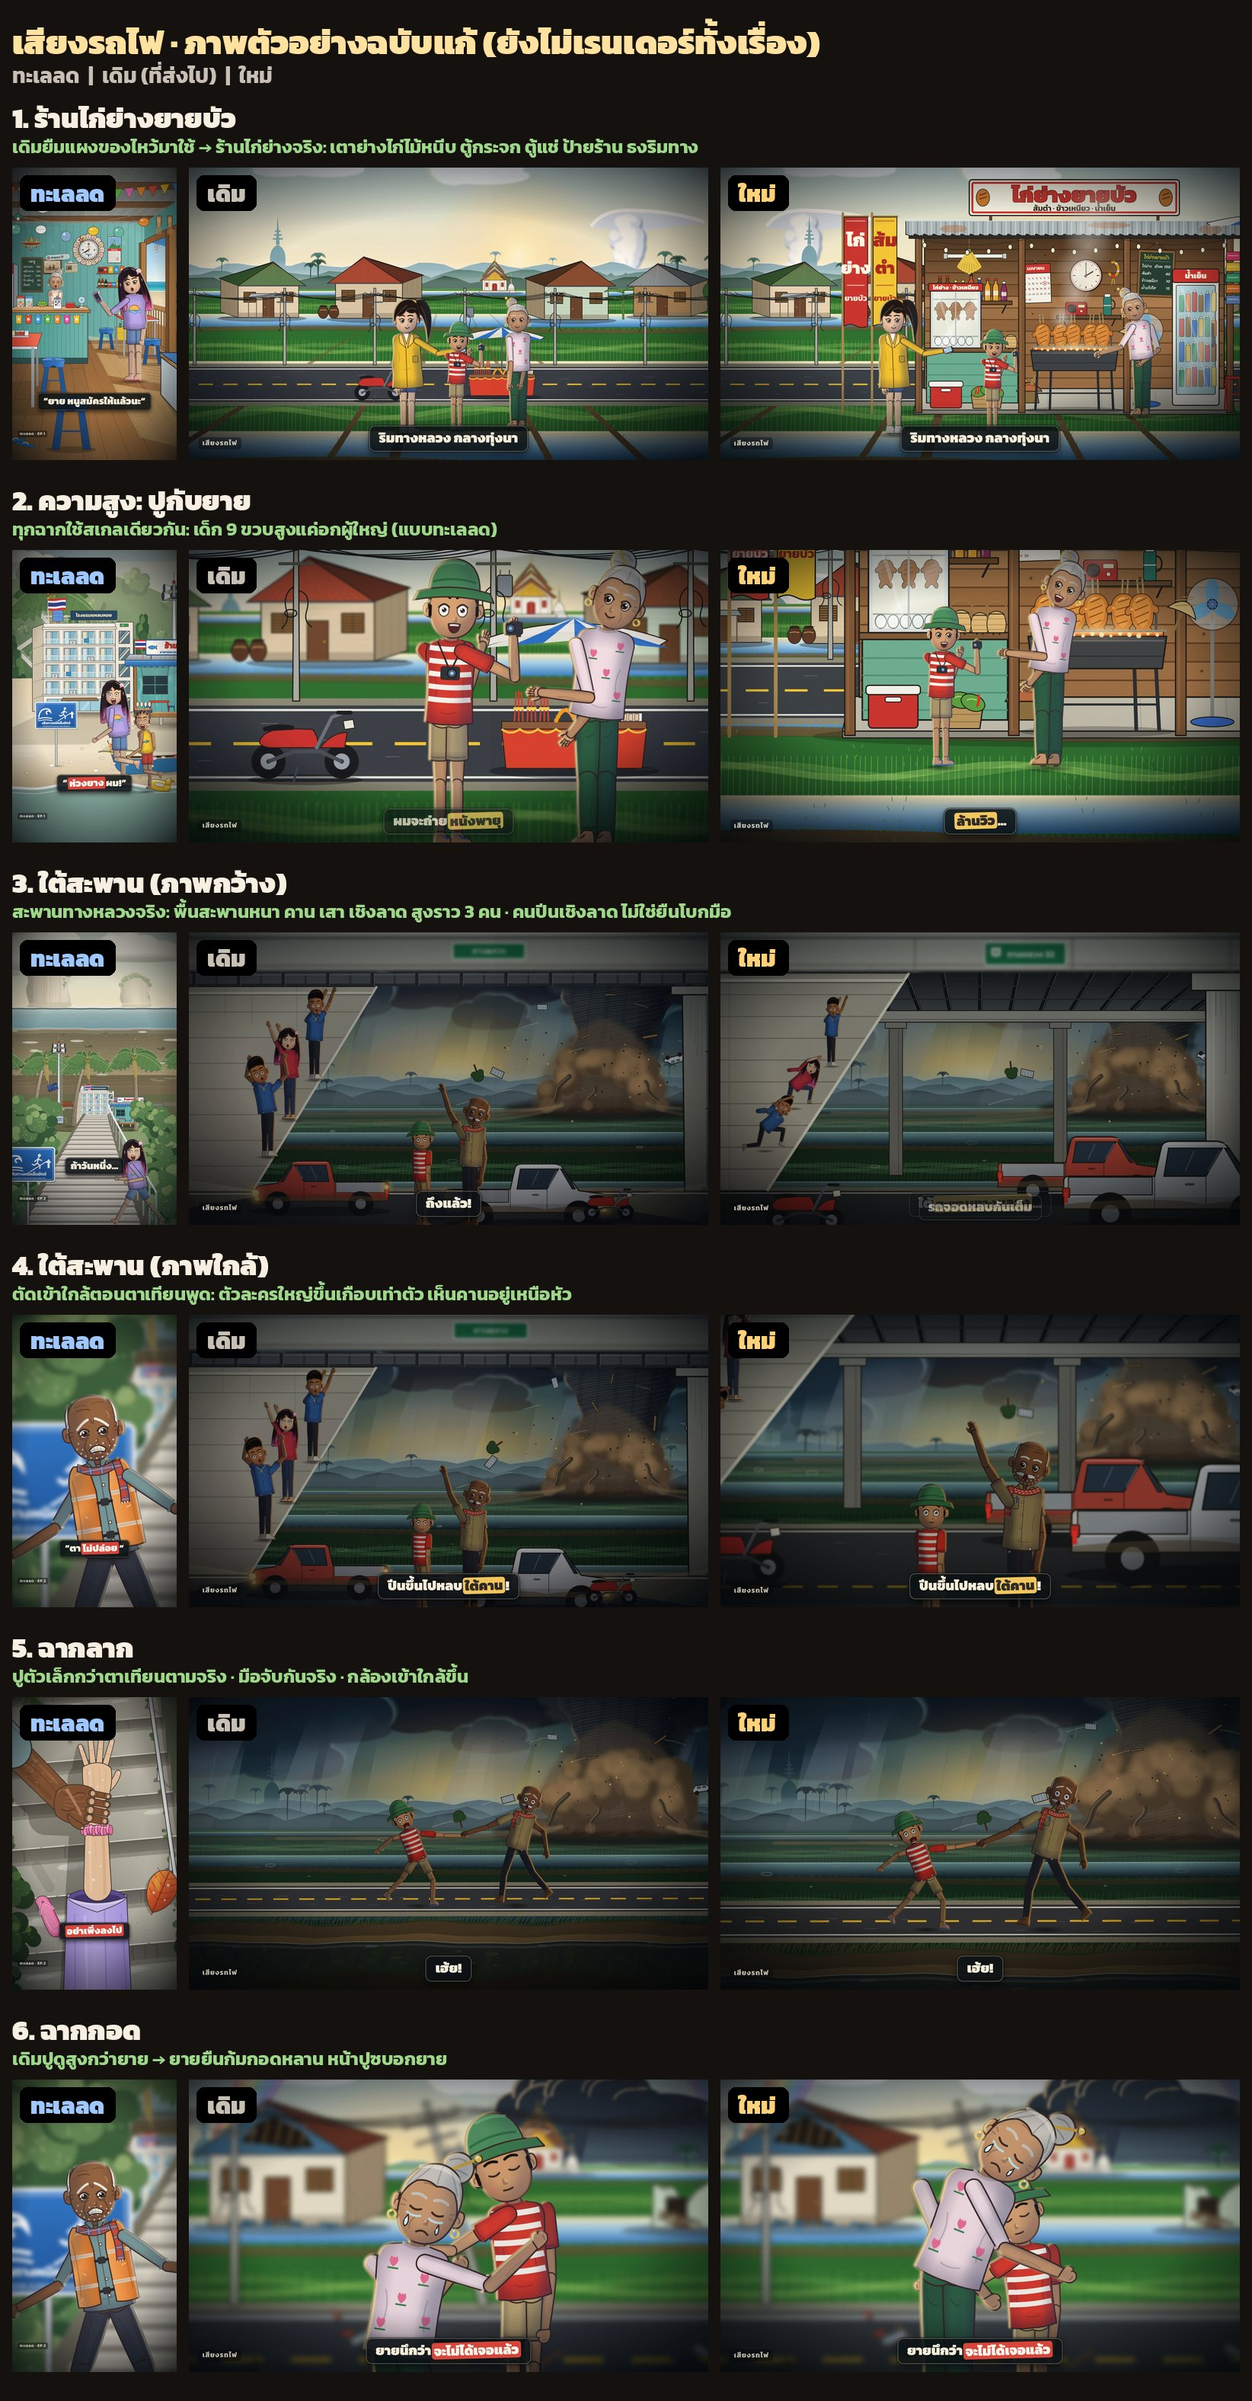
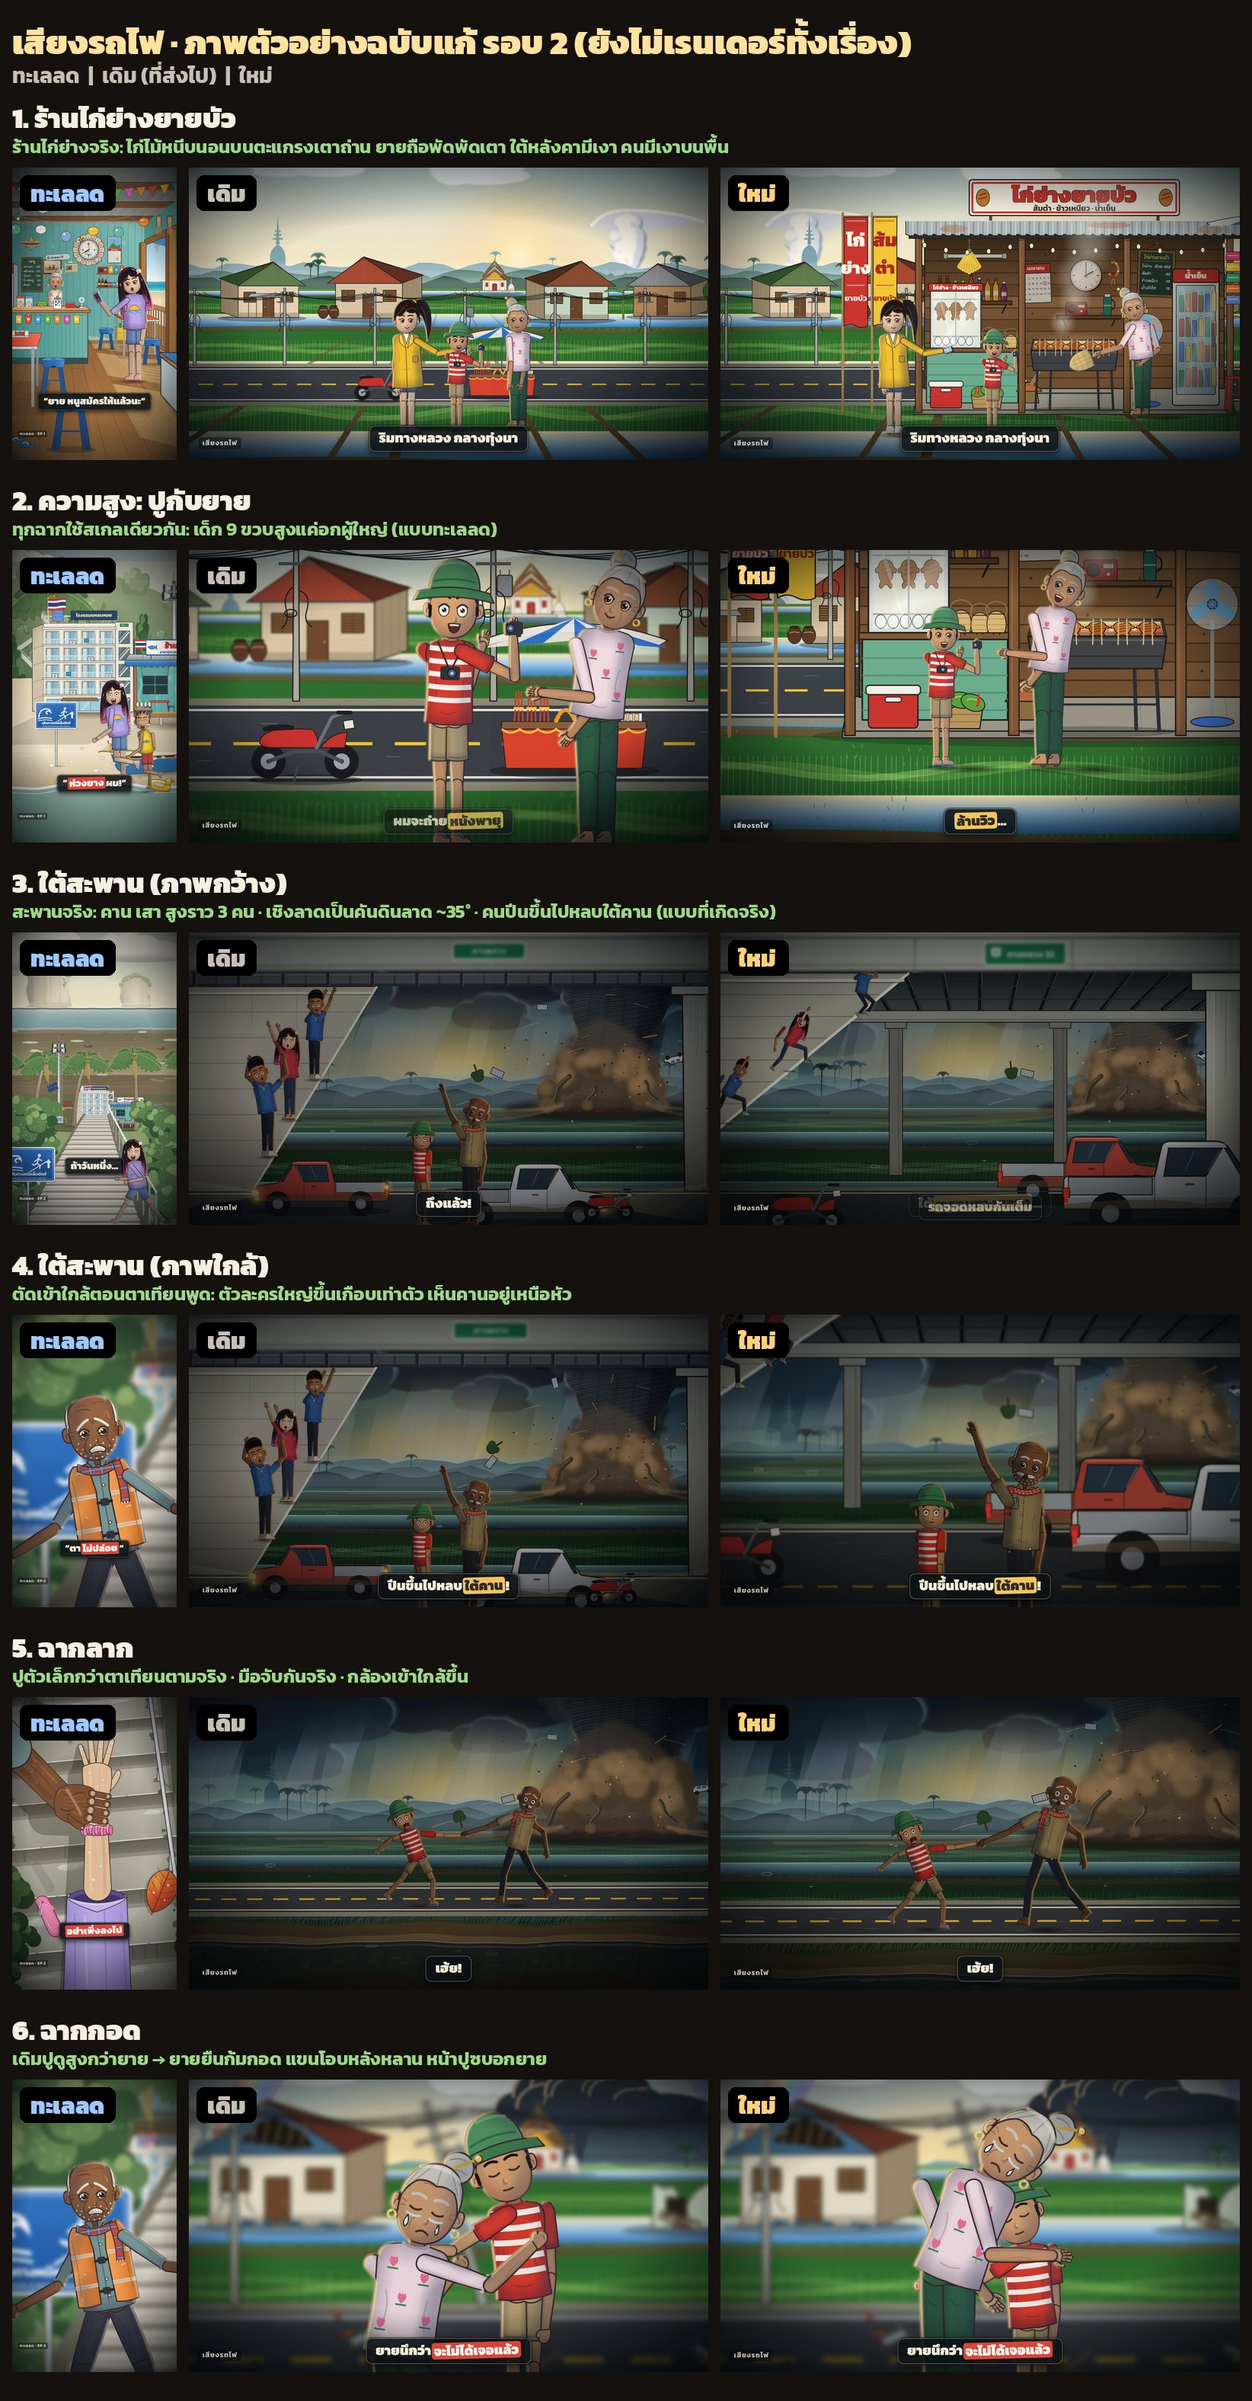
เสียงรถไฟ style frames round 2: realistic details (owner: "ละเอียดต่างๆสมจริงป่ะ")
- The grill seen a little from above: chickens in bamboo clamps lying flat on the grate over the
  coals, the handles toward us (they stood upright in a row, too big).
- The roof's shade over the back of the shop; people cast shadows on sunny days (CLEARL cast on).
- ยายบัว holds a woven palm fan while fanning the grill (C.yaiBuaFan).
- The embankment is a real ~35° slope (Ngw.overpass o.run); the people are on it, climbing up and
  huddling under the girders (cower / climbUp), not floating or waving.
- The hug: ยายบัว's near arm bends round ปู's back, the hand stops at his shoulder blade.

Claude-Session: https://claude.ai/code/session_01UrmfYm4mSaaTB25kG8juWV

diff --git a/video/tornado/stylekit/src/ngw.js b/video/tornado/stylekit/src/ngw.js
@@ -211,7 +211,7 @@
     // parapet, railing, lamp posts and the route sign in front; behind the actors the underside receding in perspective (girders
     // converging), the far deck edge and far piers, a thick near pier with its cap, and the paved abutment slope people climb.
     // Clearance is set by the shot (o.y + o.h above o.ground): about three people under the deck (≈ 5 m) at the shot's actor scale.
-    const ty = o.y ?? 560, dh = o.h ?? 150, gy = o.ground ?? 1560, sx = o.slopeX ?? 520, px = o.pier ?? 960, vx = o.vx ?? 540;
+    const ty = o.y ?? 560, dh = o.h ?? 150, gy = o.ground ?? 1560, sx = o.slopeX ?? 520, px = o.pier ?? 960, vx = o.vx ?? 540, rn = o.run ?? 640;   // rn: the slope's run (1200 ≈ a real 35° embankment)
     const db = ty + dh, sd = o.soffit ?? 170, fb = db + sd, X0 = -1500, X1 = 2700, r = mk(o.seed || 31), G = "ov" + (Ngw._ovN = (Ngw._ovN || 0) + 1);   // gradient ids unique per drawing (68 clips share the page)
     let set = `<defs><linearGradient id="${G}s" x1="0" y1="0" x2="0" y2="1"><stop offset="0" stop-color="#1e2022"/><stop offset="1" stop-color="#46494c"/></linearGradient>
       <linearGradient id="${G}p" x1="0" y1="0" x2="1" y2="0"><stop offset="0" stop-color="#bdbab0"/><stop offset=".5" stop-color="#a19e95"/><stop offset="1" stop-color="#6c6a64"/></linearGradient>
@@ -227,10 +227,10 @@
     // the shadow the deck throws on the road under it
     set += `<path d="M${X0},${gy - 50}H${X1}V${gy + 260}H${X0}Z" fill="#000" opacity=".2"/>`;
     // the abutment: a paved slope from the road up to the underside, its joints, its lit top edge, a ledge right under the girders
-    set += `<path d="M${X0},${db}H${sx}L${sx - 640},${gy}H${X0}Z" fill="url(#${G}l)" stroke="${INK}" stroke-width="6"/>`;
-    for (let k = 1; k < 10; k++) { const t = k / 10; set += `<path d="M${X0},${f1(db + t * (gy - db))}H${f1(sx - 640 * t)}" stroke="#776f62" stroke-width="4"/>`; }
-    for (let x = X0 + 150; x < sx - 640; x += 190) set += `<path d="M${x},${db}V${gy}" stroke="#776f62" stroke-width="3" opacity=".7"/>`;
-    set += `<path d="M${sx},${db}L${sx - 640},${gy}" stroke="#ddd8c8" stroke-width="12"/><path d="M${X0},${db + 34}H${sx - 22}" stroke="#c9c4b4" stroke-width="12"/><path d="M${X0},${db + 44}H${sx - 30}" stroke="#4e4a40" stroke-width="5" opacity=".7"/>`;
+    set += `<path d="M${X0},${db}H${sx}L${sx - rn},${gy}H${X0}Z" fill="url(#${G}l)" stroke="${INK}" stroke-width="6"/>`;
+    for (let k = 1; k < 10; k++) { const t = k / 10; set += `<path d="M${X0},${f1(db + t * (gy - db))}H${f1(sx - rn * t)}" stroke="#776f62" stroke-width="4"/>`; }
+    for (let x = X0 + 150; x < sx - rn; x += 190) set += `<path d="M${x},${db}V${gy}" stroke="#776f62" stroke-width="3" opacity=".7"/>`;
+    set += `<path d="M${sx},${db}L${sx - rn},${gy}" stroke="#ddd8c8" stroke-width="12"/><path d="M${X0},${db + 34}H${sx - 22}" stroke="#c9c4b4" stroke-width="12"/><path d="M${X0},${db + 44}H${sx - 30}" stroke="#4e4a40" stroke-width="5" opacity=".7"/>`;
     // the near pier: a thick column with its cap and bearing pads, lit from the left, a drain pipe, rain stains
     set += `<path d="M${px - 170},${db}H${px + 170}V${db + 80}H${px - 170}Z" fill="#aaa79e" stroke="${INK}" stroke-width="6"/>${[-110, 0, 110].map((dx) => `<rect x="${px + dx - 26}" y="${db - 14}" width="52" height="14" fill="#2e2e2e"/>`).join("")}`;
     set += `<path d="M${px - 105},${db + 80}H${px + 105}V${gy + 40}H${px - 105}Z" fill="url(#${G}p)" stroke="${INK}" stroke-width="6"/><path d="M${px - 70},${db + 84}V${gy + 30}" stroke="#d2cfc6" stroke-width="6" opacity=".55"/>`;
@@ -582,19 +582,25 @@
       <path d="M-30,-262q12,-14 30,-14" stroke="#f6c070" stroke-width="7" fill="none" stroke-linecap="round" opacity=".8"/><circle cx="-58" cy="-214" r="7" fill="#f6c070" opacity=".7"/></g>`; };
   // the charcoal grill: a long trough on legs, the coals glowing, five chickens in clamps leaning on its back rail, the smoke (class id-smk)
   Ngw.grill = (x, y, s = 1, o = {}) => { const I = INK, id = o.id || "gs";
+    // seen a little from above (owner 5 Nov "สมจริงป่ะ"): the coal bed and the grate on top, the chickens lying flat in their bamboo
+    // clamps across it, the clamp handles sticking out toward us over the front edge — not standing up in a row
     let g = `<g transform="translate(${f1(x)},${f1(y)}) scale(${s})"><ellipse cx="0" cy="8" rx="250" ry="18" fill="#000" opacity=".25"/>`;
     g += `<path d="M-190,-200L-200,4M190,-200L200,4M-120,-200L-126,0M120,-200L126,0" stroke="#2a2a2c" stroke-width="12" stroke-linecap="round"/><path d="M-196,-80H196" stroke="#2a2a2c" stroke-width="7"/>`;
-    g += `<path d="M-190,-372H190" stroke="#4a4a4c" stroke-width="8"/><path d="M-190,-372V-290M190,-372V-290" stroke="#4a4a4c" stroke-width="8"/>`;
-    [-152, -76, 0, 76, 152].forEach((cx, k) => { g += Ngw.clampChicken(cx, -270, 0.56, [-5, 3, -2, 4, -4][k]); });
-    g += `<path d="M-224,-300H224L210,-196H-210Z" fill="#3e3e40" ${OUT(5)}/><path d="M-216,-286H216" stroke="#5e5e60" stroke-width="5"/><path d="M-212,-236H212" stroke="#2a2a2c" stroke-width="4"/>`;
-    g += `<path d="M-214,-300H214V-316H-214Z" fill="url(#ngwGsCoal)" ${OUT(3)}/>`;
-    for (let k = 0; k < 14; k++) g += `<circle cx="${-196 + k * 30}" cy="${-308 + (k % 3) * 3}" r="${5 + (k % 4)}" fill="#fff0b0" opacity=".85"/>`;
-    g += `<path d="M-224,-318H224" stroke="#8a8a84" stroke-width="5"/>${Array.from({ length: 15 }, (_, k) => `<path d="M${-210 + k * 30},-326v16" stroke="#8a8a84" stroke-width="3"/>`).join("")}`;
-    g += `<ellipse cx="0" cy="-318" rx="240" ry="40" fill="url(#ngwGsWarm)" style="mix-blend-mode:screen"/>`;
-    // the woven fan resting on the trough's end
-    g += `<g transform="translate(236,-292) rotate(24)"><path d="M0,0V-90" stroke="#8a6a3a" stroke-width="8"/><path d="M-50,-90Q0,-170 50,-90Q0,-100 -50,-90Z" fill="#d8b878" ${OUT(3)}/><path d="M-30,-104l60,-30M-36,-120l50,-26M-20,-140l36,-14" stroke="#a8884a" stroke-width="3"/></g>`;
+    // the top: the far rim, the coal bed glowing between the rims, the grate bars along it
+    g += `<path d="M-224,-300L-212,-356H212L224,-300Z" fill="#2e2e30" ${OUT(4)}/><path d="M-214,-306L-204,-348H204L214,-306Z" fill="url(#ngwGsCoal)"/>`;
+    for (let k = 0; k < 22; k++) g += `<circle cx="${-196 + k * 18.6}" cy="${-318 - (k * 7) % 22}" r="${4 + (k % 3) * 2}" fill="#fff0b0" opacity=".8"/>`;
+    for (let k = 0; k < 5; k++) { const yy = -306 - k * 10.5; g += `<path d="M${f1(-214 + k * 2.4)},${f1(yy)}H${f1(214 - k * 2.4)}" stroke="#7a7a76" stroke-width="2.6"/>`; }
+    g += `<ellipse cx="0" cy="-330" rx="260" ry="60" fill="url(#ngwGsWarm)" style="mix-blend-mode:screen"/>`;
+    // the chickens: split and pressed flat, lying on the grate (a squashed top view), each in its two bamboo sticks
+    const CH = "M0,-300C-40,-302 -66,-270 -70,-232C-96,-226 -104,-200 -92,-186C-84,-176 -70,-182 -66,-190C-66,-150 -58,-122 -40,-104C-58,-86 -66,-60 -52,-46C-40,-36 -26,-50 -22,-66L0,-80L22,-66C26,-50 40,-36 52,-46C66,-60 58,-86 40,-104C58,-122 66,-150 66,-190C70,-182 84,-176 92,-186C104,-200 96,-226 70,-232C66,-270 40,-302 0,-300Z";
+    [-164, -82, 0, 82, 164].forEach((cx, k) => { const tone = ["#b8642a", "#c8722a", "#a85a22", "#c27028", "#b46026"][k];
+      g += `<g transform="translate(${cx},-327) scale(.4,.19) translate(0,190)"><path d="${CH}" fill="${tone}" ${OUT(9)}/><path d="M-30,-250l58,-22M-38,-206l74,-26M-40,-164l78,-28M-30,-124l58,-22" stroke="#5a240c" stroke-width="16" stroke-linecap="round" opacity=".7"/><path d="M-34,-262q14,-16 34,-16" stroke="#f6c070" stroke-width="16" fill="none" stroke-linecap="round" opacity=".75"/></g>`;
+      g += `<path d="M${cx - 13},-356L${cx - 14},-300M${cx + 13},-356L${cx + 14},-300" stroke="#dcc08a" stroke-width="4" stroke-linecap="round" opacity=".9"/>`; });
+    // the front face of the trough over the handles' roots
+    g += `<path d="M-224,-300H224L210,-196H-210Z" fill="#3e3e40" ${OUT(5)}/><path d="M-216,-288H216" stroke="#5e5e60" stroke-width="5"/><path d="M-212,-236H212" stroke="#2a2a2c" stroke-width="4"/>`;
+    [-164, -82, 0, 82, 164].forEach((cx) => { g += `<path d="M${cx - 14},-300L${cx - 15},-274M${cx + 14},-300L${cx + 15},-274" stroke="#dcc08a" stroke-width="4" stroke-linecap="round"/>`; });
     // the smoke drifting up and away (Ngw.grillSmoke animates id-smk)
-    if (o.smoke !== false) { for (let k = 0; k < 6; k++) { const sx = -60 + k * 34 + (k % 2) * 30, sy = -470 - k * 120, sr = 70 + k * 22;
+    if (o.smoke !== false) { for (let k = 0; k < 6; k++) { const sx = -60 + k * 34 + (k % 2) * 30, sy = -440 - k * 120, sr = 70 + k * 22;
       g += `<circle class="${id}-smk" cx="${sx}" cy="${sy}" r="${sr}" fill="url(#ngwGsSmoke)" opacity="${f1(0.75 - k * 0.09)}"/>`; } }
     return g + `</g>`; };
   // the smoke rising: each puff drifts up and right and thins, looping
@@ -646,6 +652,8 @@
       for (let b = 0; b < 6; b++) { const bx = -84 + b * 33, h = 86 + ((b + sh) % 3) * 8; g += `<rect x="${bx}" y="${sy - h}" width="24" height="${h}" rx="8" fill="${bc[(b + sh * 2) % 6]}" ${OUT(2)}/><rect x="${bx + 7}" y="${sy - h - 10}" width="10" height="12" fill="#e8e4d8" ${OUT(1.5)}/>`; } }
     g += `<rect x="-100" y="-616" width="200" height="560" rx="6" fill="url(#ngwGsGlass)"/><path d="M-70,-600L60,-90" stroke="#fff" stroke-width="10" opacity=".25"/><rect x="84" y="-420" width="10" height="120" rx="5" fill="#8a8a84" ${OUT(2)}/></g>`;
     if (lit) g += `<ellipse cx="624" cy="-330" rx="200" ry="330" fill="#e8fcff" opacity=".2" style="mix-blend-mode:screen"/>`;
+    // the roof's shade over everything at the back of the shop (bright day: deep; storm with the lights on: light)
+    g += `<path d="M-770,-884H770V-112H-770Z" fill="#1c140c" opacity="${lit ? 0.12 : 0.3}" style="mix-blend-mode:multiply"/><path d="M-800,-112H800L824,0H-824Z" fill="#1c140c" opacity="${lit ? 0.1 : 0.22}" style="mix-blend-mode:multiply"/>`;
     // the counter (left bay): a mint-painted plank front, the glass chicken cabinet, the sticky-rice baskets, a plastic-bag stack
     g += `<rect x="-770" y="-318" width="490" height="22" fill="#7a5232" ${OUT(4)}/><path d="M-760,-296H-290V-36H-760Z" fill="#6aa88a" ${OUT(5)}/>${Array.from({ length: 4 }, (_, k) => `<path d="M-760,${-236 + k * 56}H-290" stroke="#4a8a6c" stroke-width="5"/>`).join("")}`;
     g += `<g transform="translate(-610,-318)"><rect x="-130" y="-300" width="260" height="300" fill="#d8dcdc" ${OUT(5)}/><rect x="-140" y="-332" width="280" height="40" rx="6" fill="#c8302a" ${OUT(4)}/><text y="-301" text-anchor="middle" font-family="Kanit" font-weight="800" font-size="30" fill="#fff6e0">ไก่ย่าง · ข้าวเหนียว</text>
@@ -1589,4 +1597,8 @@
     <circle cx="-26" cy="-524" r="1.8" fill="#fff"/><circle cx="25" cy="-523" r="1.5" fill="#fff"/></g>`;
   C.taTianCry = { v2: { ...C.taTian.v2, face: C.taTian.v2.face + tears } };
   C.yaiBuaCry = { v2: { ...C.yaiBua.v2, face: (C.yaiBua.v2.face || "") + tears } };
+  const palmFan = `<g transform="translate(0,112) rotate(8)"><path d="M0,-6V58" stroke="#8a6a3a" stroke-width="9" stroke-linecap="round"/><path d="M-46,52Q-58,150 0,166Q58,150 46,52Q0,40 -46,52Z" fill="#d8b878" ${ln(2.6)}/>
+    <path d="M-44,80H44M-48,108H48M-42,136H42M-20,52V160M0,48V166M20,52V160" stroke="#a8884a" stroke-width="3" opacity=".8"/><path d="M-46,52Q0,40 46,52" stroke="#8a6a3a" stroke-width="6" fill="none"/></g>`;
+  C.yaiBuaFan = { ...C.yaiBua, hand: palmFan, keep: "F" };   // fanning the charcoal at the grill
+
 })();

diff --git a/video/tornado/qa/sheet3.py b/video/tornado/qa/sheet3.py
@@ -9,18 +9,18 @@ fb = lambda n: ImageFont.truetype(F + "f2.ttf", n)
 fx = lambda n: ImageFont.truetype(F + "f3.ttf", n)
 out = sys.argv[1]
 ROWS = [
-    ("1. ร้านไก่ย่างยายบัว", "เดิมยืมแผงของไหว้มาใช้ → ร้านไก่ย่างจริง: เตาย่างไก่ไม้หนีบ ตู้กระจก ตู้แช่ ป้ายร้าน ธงริมทาง", "td1_19", "t11.00", "t11.00"),
+    ("1. ร้านไก่ย่างยายบัว", "ร้านไก่ย่างจริง: ไก่ไม้หนีบนอนบนตะแกรงเตาถ่าน ยายถือพัดพัดเตา ใต้หลังคามีเงา คนมีเงาบนพื้น", "td1_19", "t11.00", "t11.00"),
     ("2. ความสูง: ปูกับยาย", "ทุกฉากใช้สเกลเดียวกัน: เด็ก 9 ขวบสูงแค่อกผู้ใหญ่ (แบบทะเลลด)", "td1_91", "t20.50", "t22.50"),
-    ("3. ใต้สะพาน (ภาพกว้าง)", "สะพานทางหลวงจริง: พื้นสะพานหนา คาน เสา เชิงลาด สูงราว 3 คน · คนปีนเชิงลาด ไม่ใช่ยืนโบกมือ", "td2_1", "t133.00", "t131.50"),
+    ("3. ใต้สะพาน (ภาพกว้าง)", "สะพานจริง: คาน เสา สูงราว 3 คน · เชิงลาดเป็นคันดินลาด ~35° · คนปีนขึ้นไปหลบใต้คาน (แบบที่เกิดจริง)", "td2_1", "t133.00", "t131.50"),
     ("4. ใต้สะพาน (ภาพใกล้)", "ตัดเข้าใกล้ตอนตาเทียนพูด: ตัวละครใหญ่ขึ้นเกือบเท่าตัว เห็นคานอยู่เหนือหัว", "td2_10", "t134.50", "t134.50"),
     ("5. ฉากลาก", "ปูตัวเล็กกว่าตาเทียนตามจริง · มือจับกันจริง · กล้องเข้าใกล้ขึ้น", "td2_4", "t146.30", "t146.30"),
-    ("6. ฉากกอด", "เดิมปูดูสูงกว่ายาย → ยายยืนก้มกอดหลาน หน้าปูซบอกยาย", "td2_7", "t197.00", "t197.00"),
+    ("6. ฉากกอด", "เดิมปูดูสูงกว่ายาย → ยายยืนก้มกอด แขนโอบหลังหลาน หน้าปูซบอกยาย", "td2_7", "t197.00", "t197.00"),
 ]
 VH = 384; VW = VH * 9 // 16; WW = VH * 16 // 9; G = 16; LH = 92
 W = VW + 2 * WW + 4 * G
 H = 120 + len(ROWS) * (LH + VH + G + 10) + 20
 img = Image.new("RGB", (W, H), "#14110e"); d = ImageDraw.Draw(img)
-d.text((G, 22), "เสียงรถไฟ · ภาพตัวอย่างฉบับแก้ (ยังไม่เรนเดอร์ทั้งเรื่อง)", font=fx(44), fill="#ffe2a0")
+d.text((G, 22), "เสียงรถไฟ · ภาพตัวอย่างฉบับแก้ รอบ 2 (ยังไม่เรนเดอร์ทั้งเรื่อง)", font=fx(44), fill="#ffe2a0")
 d.text((G, 78), "ทะเลลด  |  เดิม (ที่ส่งไป)  |  ใหม่", font=fb(28), fill="#c8c0b4")
 y = 128
 for title, note, td, old, new in ROWS:
